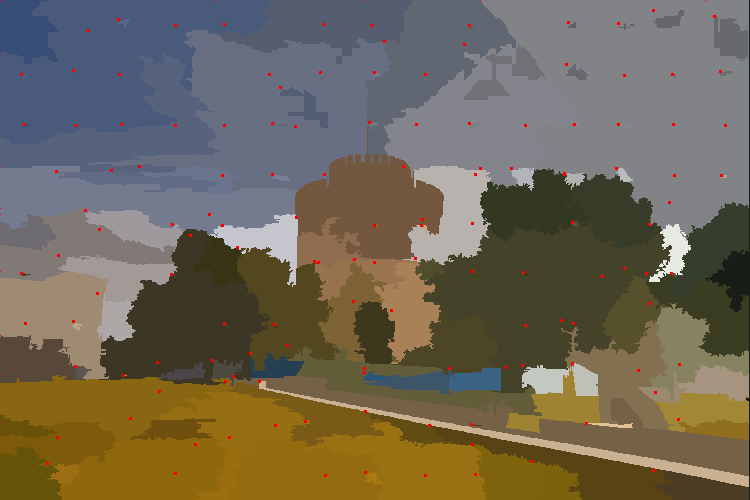
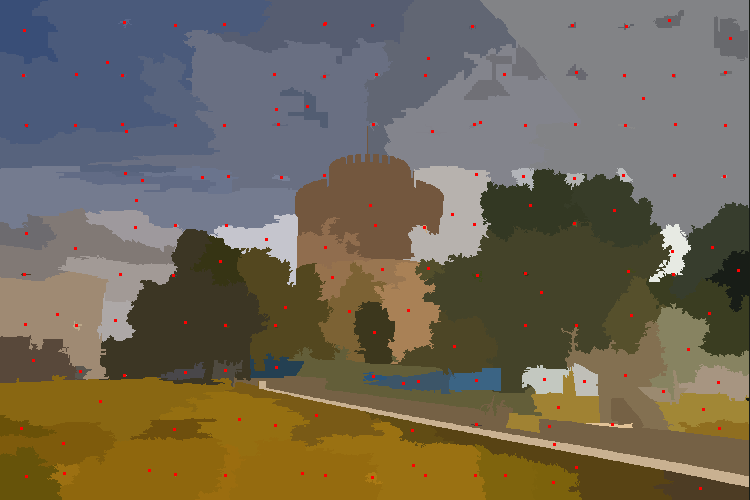
fixed centers

diff --git a/ExtraCredit/EC4/snic.py b/ExtraCredit/EC4/snic.py
@@ -32,13 +32,13 @@ def drawBorders(labelMap, ret):
 def updateCluster(clusters, index, element):
     cluster = clusters[index]
     # increment count
-    elements = cluster[5]
     cluster[5] += 1
+    elements = cluster[5]
     # the index must be an integer
-    cluster[0] = ((cluster[0] * elements) + element[0]) // cluster[5]
-    cluster[1] = ((cluster[1] * elements) + element[1])  // cluster[5]
+    cluster[0] = ((cluster[0] * (elements-1)) + element[0]) / cluster[5]
+    cluster[1] = ((cluster[1] * (elements-1)) + element[1])  / cluster[5]
     for i in range(2,5):
-        cluster[i] = ((cluster[i] * elements) + element[i]) / cluster[5]
+        cluster[i] = ((cluster[i] * (elements-1)) + element[i]) / cluster[5]
 
 def squaredDifference(a,b):
     total = 0
@@ -98,9 +98,11 @@ def snic(image, compactnessFactor):
                         d = elementDistance(target,old,s,m)
                         e = (d, k, targetColor[0], targetColor[1], targetColor[2], moveX, moveY)
                         heapq.heappush(heap,e)
+    centers= []
     for i in range(xsize):
         for j in range(ysize):
             clusterIndex = labelMap[i][j]
             target = clusters[int(clusterIndex-1)]
             ret[i][j] = [target[2]/255,target[3]/255,target[4]/255]
+            centers.append([target[0],target[1]])
     return drawBorders(labelMap,ret)

diff --git a/ExtraCredit/EC4/driver.py b/ExtraCredit/EC4/driver.py
@@ -1,0 +1,4 @@
+import os 
+
+if __name__ == "__main__":
+    os.system("python main.py wt_slic.png 2")
